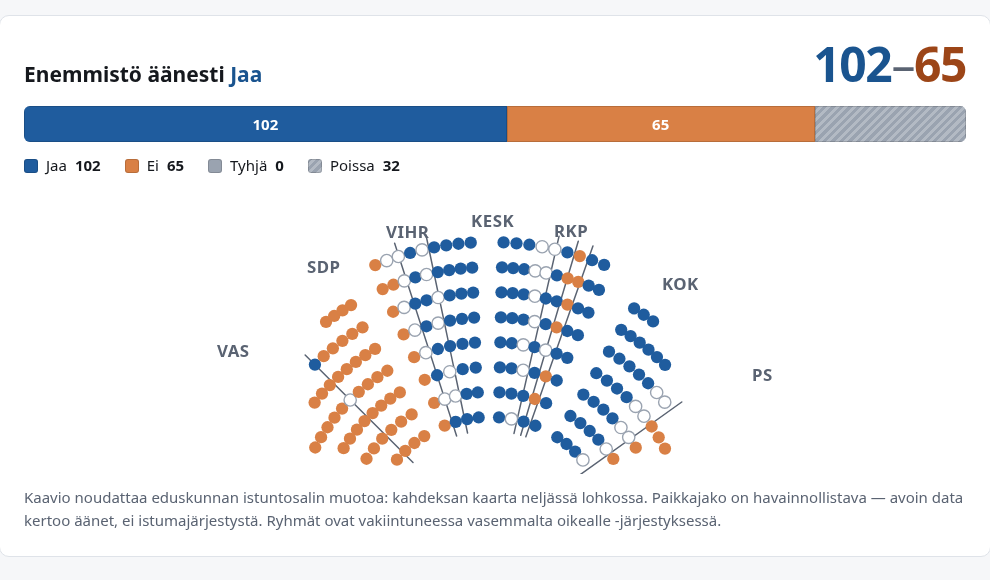
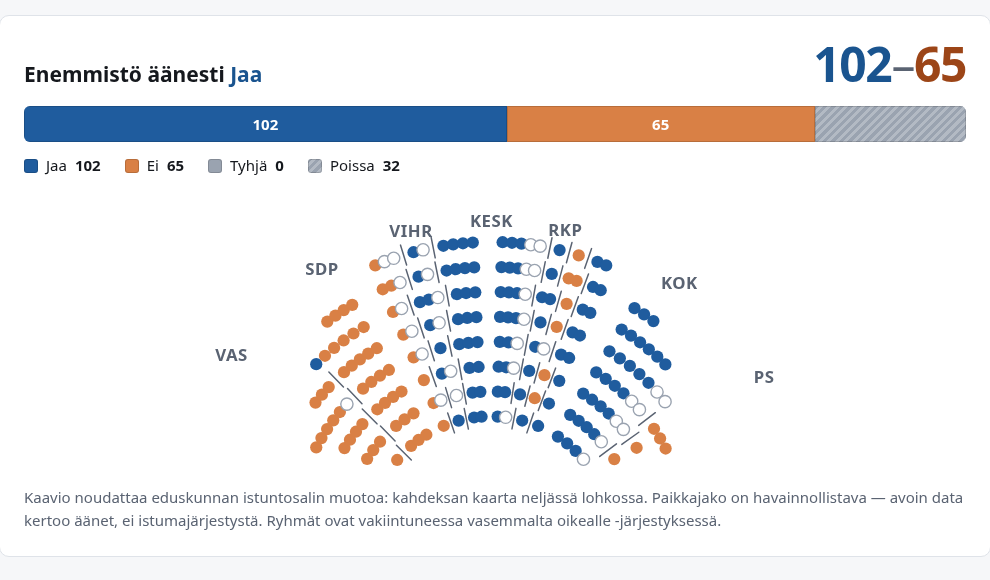
Put the boundary lines in a gap instead of through the seats
Every one of the seven lines in a full chamber crossed a circle, two of them
straight through the middle of one. The reasoning behind a single radial
spoke per boundary was wrong: it checked which side each seat's centre fell
on, but a seat is wide in angle terms — about two degrees on the inner arcs
— and every arc holds a different number of seats, so the groups change over
at a different angle in each. There is no one angle that is clear in all of
them.

So each arc is respaced on its own, opening an extra step of arc wherever
one group gives way to the next, and each arc gets its own segment of the
line, placed in the gap that opens. Nothing now passes closer to a seat than
7.7 units against a radius of 6.2, and a test walks every line against every
seat at four chamber sizes to keep it that way.

Two tests said more than they could. One asserted that groups never overlap
in angle anywhere in the chamber; they need not, because arcs change over at
different angles, and a single-member group in one row can reach past
another group's seats in a different row. The other read a group's ballots
in one angular sweep and expected the Jaa and Ei blocks to be unbroken, which
reads eight rows interleaved. Both now hold per arc, which is where they are
true and where they matter.

Also cites the plan the Eduskunta publishes rather than the Wikimedia
drawing of it, and records that the left-to-right order of the groups was
[…]

diff --git a/VoteCheckWeb/Pages/Shared/_Chamber.cs b/VoteCheckWeb/Pages/Shared/_Chamber.cs
@@ -7,7 +7,7 @@ namespace VoteCheckWeb.Pages;
 // between groups are drawn along them.
 public sealed record Seat(
     double X, double Y, string Vote, string Party, string Member, int PersonNumber,
-    int Row, double Angle );
+    int Row, int Sector, double Angle );
 
 // A group's short name, set under the block of seats it belongs to.
 public sealed record ChamberLabel( double X, double Y, string Text );
@@ -24,8 +24,8 @@ public sealed record ChamberPlan(
 // Arranges one division's ballots into the shape of the Eduskunta chamber: a fan of
 // concentric arcs, cut by aisles into four sectors.
 //
-// The proportions are measured from the seating plan published on Wikimedia Commons
-// ("Eduskunta istumajärjestys 2023"), by fitting a common centre to the 200 seats in it:
+// The proportions are measured from the seating plan the Eduskunta publishes
+// (istumajarjestys-vaalikausi-2023-2026.pdf), by fitting a common centre to its 200 seats:
 // eight seating rows, an outer radius about 2.4 times the inner one, seats spanning 25° to
 // 154° about the centre, and aisles at roughly 62°, 90° and 117°. The four sectors those
 // aisles make hold 48, 52, 51 and 49 members — near enough equal that this splits the
@@ -47,6 +47,10 @@ public static class Chamber {
     private const double SeatRadius = 6.2;
     private const double Margin = 8;
     private const double LabelSize = 17;
+
+    // Extra steps of arc opened where one group meets the next, as a multiple of the step
+    // between two neighbouring seats. Enough for the line plus clear air either side.
+    private const double BoundaryGap = 1.1;
 
     // Sector bounds in degrees, measured from the plan. 0° is to the right of the centre and
     // 90° straight up, so the list runs right to left and the gaps between entries are the
@@ -111,8 +115,10 @@ public static class Chamber {
             var p = places[ i ];
             seats.Add( new Seat( p.X, p.Y, b.Vote, b.Party,
                                  $"{b.FirstName} {b.LastName}", b.PersonNumber,
-                                 p.Row, p.Angle ) );
+                                 p.Row, p.Sector, p.Angle ) );
         }
+
+        seats = Respace( seats );
 
         // Labels sit outside the outer row, so they are laid out before the box is measured
         // and counted in it. Measuring the seats alone clipped the ones above the top of the
@@ -148,7 +154,52 @@ public static class Chamber {
     // safe directions to be wrong in.
     private static double HalfWidth( string text ) => text.Length * LabelSize * 0.34;
 
-    private readonly record struct Place( double X, double Y, int Row, double Angle );
+    // Widen the step where one group gives way to the next, so the line between them has
+    // somewhere to go.
+    //
+    // Evenly spaced, the gap between two neighbours on an arc is about a seat and a half
+    // wide, and a line down the middle of it clips both. Worse, a line cannot be put at one
+    // angle for the whole boundary at all: each arc holds a different number of seats, so the
+    // groups change over at a different angle in every row, and a single spoke crossed a
+    // circle in all seven boundaries of a full chamber — twice straight through the centre of
+    // one. Each arc is respaced on its own, and each gets its own segment of the line.
+    private static List<Seat> Respace( List<Seat> seats ) {
+        var result = new List<Seat>( seats.Count );
+
+        foreach ( var cell in seats.GroupBy( s => ( s.Row, s.Sector ) ) ) {
+            var inCell = cell.OrderByDescending( s => s.Angle ).ToList();
+            var span = SectorIn( cell.Key.Row, cell.Key.Sector );
+            if ( span is null ) { result.AddRange( inCell ); continue; }
+
+            var ( from, to ) = span.Value;
+            var breaks = Enumerable.Range( 1, inCell.Count - 1 )
+                .Count( i => inCell[ i ].Party != inCell[ i - 1 ].Party );
+
+            // Seats take one step each, a change of group takes BoundaryGap extra.
+            var step = ( to - from ) / ( inCell.Count + breaks * BoundaryGap );
+            var radius = RowRadius( cell.Key.Row );
+
+            var cursor = 0.0;
+            for ( var i = 0; i < inCell.Count; i++ ) {
+                if ( i > 0 && inCell[ i ].Party != inCell[ i - 1 ].Party )
+                    cursor += step * BoundaryGap;
+
+                // Seats run right to left along the arc, from `to` down towards `from`.
+                var angle = to - ( cursor + step / 2 );
+                var radians = angle * Math.PI / 180;
+                result.Add( inCell[ i ] with {
+                    X = radius * Math.Cos( radians ),
+                    Y = -radius * Math.Sin( radians ),
+                    Angle = angle,
+                } );
+                cursor += step;
+            }
+        }
+
+        return result.OrderByDescending( s => s.Angle ).ThenBy( s => s.Row ).ToList();
+    }
+
+    private readonly record struct Place( double X, double Y, int Row, int Sector, double Angle );
 
     // Seat centres, ordered left to right across the whole chamber.
     private static List<Place> Places( int total ) {
@@ -193,7 +244,7 @@ public static class Chamber {
                     places.Add( new Place(
                         radius * Math.Cos( radians ),
                         -radius * Math.Sin( radians ),
-                        row, angle ) );
+                        row, sector, angle ) );
                 }
             }
         }
@@ -226,39 +277,27 @@ public static class Chamber {
         return counts;
     }
 
-    // A line along each boundary between two groups.
+    // A line along each boundary between two groups, one segment per arc.
     //
-    // One radial spoke each, and that is exact rather than approximate: seats are placed in
-    // order of decreasing angle and groups are assigned along that order, so every member of
-    // a group on the left has a greater angle than every member of the group to its right.
-    // A line anywhere between the two therefore separates them completely.
-    //
-    // The chevron this replaced needed a stepped line, because there seats shared columns and
-    // a boundary could fall partway down one. Nothing on a fan shares an angle, so the step
-    // is gone — and with it a line that read as a fence through the middle of the seating.
+    // It cannot be a single spoke. Each arc holds a different number of seats, so the groups
+    // change over at a different angle in every row, and a seat is wide in angle terms — about
+    // two degrees on the inner arcs. A spoke at one angle crossed a circle on all seven
+    // boundaries of a full chamber, twice straight through the middle of one. Each arc gets
+    // its own segment instead, placed in the gap Respace opened there.
     private static List<string> Dividers( List<Seat> seats, double cx, double cy ) {
         var paths = new List<string>();
 
-        for ( var i = 1; i < seats.Count; i++ ) {
-            var before = seats[ i - 1 ];
-            var after = seats[ i ];
-            if ( before.Party == after.Party ) continue;
+        foreach ( var cell in seats.GroupBy( s => ( s.Row, s.Sector ) )
+                                   .OrderBy( g => g.Key.Row ).ThenBy( g => g.Key.Sector ) ) {
+            var inCell = cell.OrderByDescending( s => s.Angle ).ToList();
+            var inner = RowRadius( cell.Key.Row ) - RowGap * 0.42;
+            var outer = RowRadius( cell.Key.Row ) + RowGap * 0.42;
 
-            var angle = ( before.Angle + after.Angle ) / 2;
-
-            // Only as long as the seating actually is at this angle. Run to the full outer
-            // radius, a spoke would carry on past the ends of the back rows, which stop short
-            // of the sides, and draw a line across empty floor.
-            var rows = Enumerable.Range( 0, RowCount )
-                .Where( r => Enumerable.Range( 0, Sectors.Length )
-                    .Select( x => SectorIn( r, x ) )
-                    .Any( x => x is not null && angle >= x.Value.From - 3 && angle <= x.Value.To + 3 ) )
-                .ToList();
-            if ( rows.Count == 0 ) continue;
-
-            var inner = RowRadius( rows.First() ) - RowGap * 0.55;
-            var outer = RowRadius( rows.Last() ) + RowGap * 0.55;
-            paths.Add( $"M {Point( cx, cy, inner, angle )} L {Point( cx, cy, outer, angle )}" );
+            for ( var i = 1; i < inCell.Count; i++ ) {
+                if ( inCell[ i ].Party == inCell[ i - 1 ].Party ) continue;
+                var angle = ( inCell[ i - 1 ].Angle + inCell[ i ].Angle ) / 2;
+                paths.Add( $"M {Point( cx, cy, inner, angle )} L {Point( cx, cy, outer, angle )}" );
+            }
         }
 
         return paths;

diff --git a/VoteCheckWeb.Tests/ChamberTests.cs b/VoteCheckWeb.Tests/ChamberTests.cs
@@ -95,14 +95,38 @@ public class ChamberTests {
 
     [TestMethod]
     public void WithinAGroupTheSidesAreBlocksRatherThanScatter() {
+        // Checked along each arc rather than across the whole chamber: a group spans several
+        // arcs, and reading them in one angular sweep interleaves the rows, which is the fan
+        // working as intended rather than the blocks breaking up.
         var plan = Chamber.Arrange( Division() );
-        var kok = plan.Seats.Where( s => s.Party == "kok" ).Select( s => s.Vote ).ToList();
 
-        // Each value appears in one run: Jaa, then Ei, then the ballots that decided nothing.
-        var runs = kok.Where( ( v, i ) => i == 0 || v != kok[ i - 1 ] ).ToList();
-        Assert.AreEqual( runs.Count, runs.Distinct().Count(),
-            "a vote value appearing twice means the group's block was broken up" );
-        Assert.AreEqual( VoteValue.Yes, runs.First() );
+        foreach ( var arc in plan.Seats.Where( s => s.Party == "kok" )
+                                 .GroupBy( s => ( s.Row, s.Sector ) ) ) {
+            var votes = arc.OrderByDescending( s => s.Angle ).Select( s => s.Vote ).ToList();
+            var runs = votes.Where( ( v, i ) => i == 0 || v != votes[ i - 1 ] ).ToList();
+            Assert.AreEqual( runs.Count, runs.Distinct().Count(),
+                $"a vote value appears twice along row {arc.Key.Row}, so the block was split" );
+        }
+    }
+
+    [TestMethod]
+    public void GroupsDoNotInterleaveAlongAnArc() {
+        // Asserted per arc, which is where it has to hold: each arc carries its groups in
+        // seating order with no member of another group among them.
+        //
+        // Not across the whole chamber. Every arc holds a different number of seats, so the
+        // groups change over at a different angle in each, and a group's seats in one row can
+        // reach past another group's seats in a different row. That is the fan, not a fault —
+        // and it is why each arc gets its own boundary line rather than one radial spoke.
+        var plan = Chamber.Arrange( Division() );
+
+        foreach ( var arc in plan.Seats.GroupBy( s => ( s.Row, s.Sector ) ) ) {
+            var order = arc.OrderByDescending( s => s.Angle ).Select( s => s.Party ).ToList();
+            var runs = order.Where( ( p, i ) => i == 0 || p != order[ i - 1 ] ).ToList();
+            Assert.AreEqual( runs.Count, runs.Distinct().Count(),
+                $"row {arc.Key.Row} sector {arc.Key.Sector} returns to a group it had left: "
+                + string.Join( " ", order ) );
+        }
     }
 
     [TestMethod]
@@ -144,12 +168,22 @@ public class ChamberTests {
     // ---- boundaries between groups -------------------------------------------------
 
     [TestMethod]
-    public void EveryBoundaryBetweenGroupsGetsExactlyOneLine() {
+    public void EveryPlaceTwoGroupsMeetOnAnArcGetsALine() {
+        // One segment per arc rather than one per boundary: a boundary crosses however many
+        // arcs it happens to cross, and each needs its own line.
         var plan = Chamber.Arrange( Division() );
-        var groups = plan.Seats.Select( s => s.Party ).Distinct().Count();
 
-        Assert.AreEqual( groups - 1, plan.Dividers.Count,
-            "ten groups meet at nine boundaries; a missing line leaves two groups merged" );
+        var changes = plan.Seats
+            .GroupBy( s => ( s.Row, s.Sector ) )
+            .Sum( arc => arc.OrderByDescending( s => s.Angle )
+                            .Select( s => s.Party )
+                            .Where( ( p, i ) => i > 0 )
+                            .Zip( arc.OrderByDescending( s => s.Angle ).Select( s => s.Party ),
+                                  ( a, b ) => a != b )
+                            .Count( x => x ) );
+
+        Assert.AreEqual( changes, plan.Dividers.Count );
+        Assert.IsTrue( plan.Dividers.Count > 0, "a ten-group chamber has boundaries to draw" );
     }
 
     [TestMethod]
@@ -216,28 +250,35 @@ public class ChamberTests {
     }
 
     [TestMethod]
-    public void EachBoundaryIsOneRadialLineAndItSeparatesTheGroupsExactly() {
-        // A single spoke suffices because seats are placed in order of decreasing angle and
-        // groups are assigned along that order: every member of a group on the left sits at a
-        // greater angle than every member of the group to its right. This asserts that
-        // ordering directly — it is what makes one line correct rather than approximate.
-        var plan = Chamber.Arrange( Division() );
+    public void NoBoundaryLineTouchesASeat() {
+        // The reason each arc is respaced and gets its own segment. A single spoke per boundary
+        // crossed a circle on all seven boundaries of a full chamber — twice through the middle
+        // of one — because a seat is about two degrees wide on the inner arcs and the groups
+        // change over at a different angle in every row.
+        foreach ( var n in new[] { 99, 150, 199, 200 } ) {
+            var plan = Chamber.Arrange( Ballots( n ) );
 
-        foreach ( var d in plan.Dividers ) {
-            Assert.AreEqual( 1, d.Count( c => c == 'L' ), $"not a single straight line: {d}" );
-            Assert.AreEqual( 0, d.Count( c => c == 'A' ), $"a fan boundary needs no arc: {d}" );
+            foreach ( var d in plan.Dividers ) {
+                var p = d.Split( ' ' );
+                Assert.AreEqual( "M", p[ 0 ] );
+                Assert.AreEqual( "L", p[ 3 ] );
+                var ( ax, ay, bx, by ) = ( Num( p[ 1 ] ), Num( p[ 2 ] ), Num( p[ 4 ] ), Num( p[ 5 ] ) );
+
+                foreach ( var seat in plan.Seats )
+                    Assert.IsTrue( DistanceToSegment( seat.X, seat.Y, ax, ay, bx, by ) >= plan.Radius,
+                        $"{n} ballots: a boundary line crosses {seat.Member}'s seat" );
+            }
         }
+    }
 
-        var byGroup = plan.Seats
-            .GroupBy( s => s.Party )
-            .Select( g => ( Party: g.Key, Min: g.Min( s => s.Angle ), Max: g.Max( s => s.Angle ) ) )
-            .OrderByDescending( g => g.Max )
-            .ToList();
+    private static double Num( string s ) =>
+        double.Parse( s, System.Globalization.CultureInfo.InvariantCulture );
 
-        for ( var i = 1; i < byGroup.Count; i++ )
-            Assert.IsTrue( byGroup[ i ].Max < byGroup[ i - 1 ].Min,
-                $"{byGroup[ i ].Party} overlaps {byGroup[ i - 1 ].Party} in angle, so no single "
-                + "line could separate them" );
+    private static double DistanceToSegment(
+        double px, double py, double ax, double ay, double bx, double by ) {
+        double vx = bx - ax, vy = by - ay, wx = px - ax, wy = py - ay;
+        var t = Math.Clamp( ( wx * vx + wy * vy ) / ( vx * vx + vy * vy ), 0, 1 );
+        return Math.Sqrt( Math.Pow( px - ( ax + t * vx ), 2 ) + Math.Pow( py - ( ay + t * vy ), 2 ) );
     }
 
     [TestMethod]
